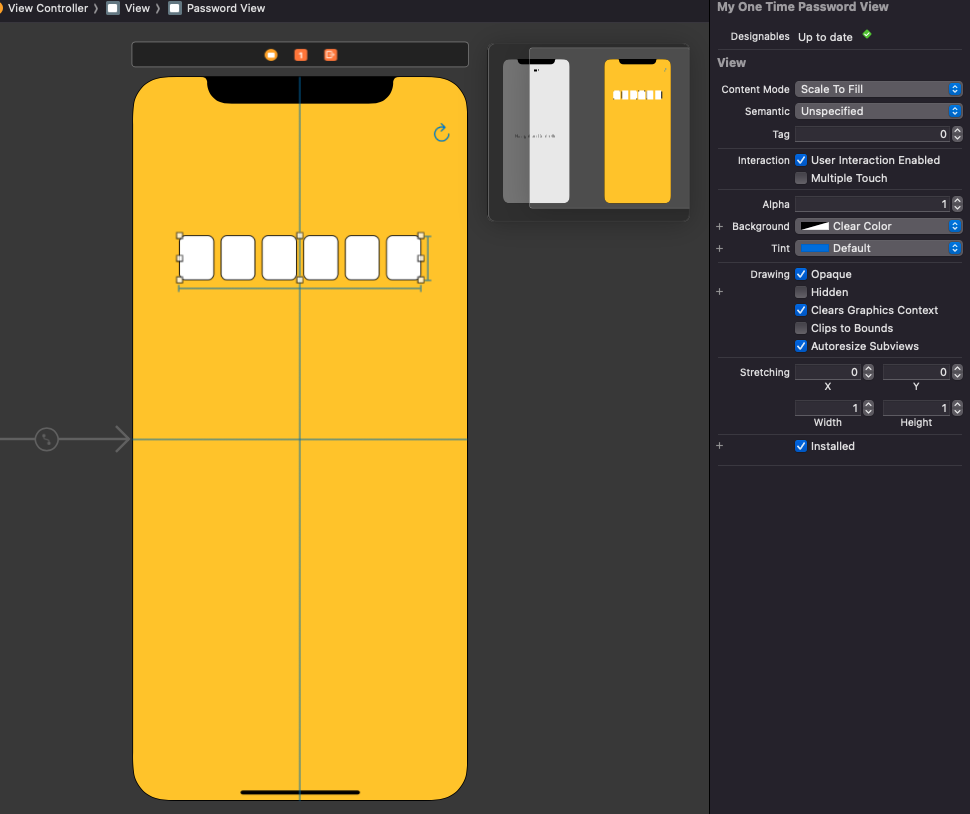
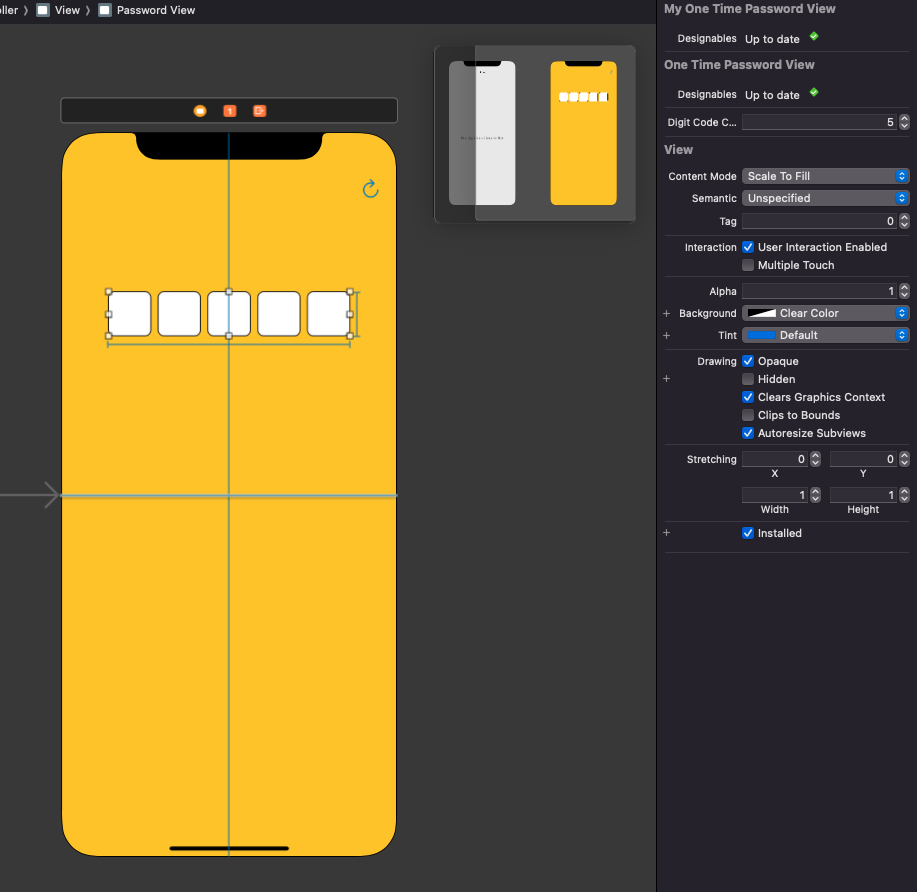
- add @IBInspectable support

Changed region(s): [[0.0305, 0.0, 1.0, 0.9828], [0.0, 0.0, 0.2748, 0.0307], [0.7634, 0.4914, 0.7939, 0.5221]]

diff --git a/Sources/WWOneTimePasswordView/WWOneTimePasswordView.swift b/Sources/WWOneTimePasswordView/WWOneTimePasswordView.swift
@@ -13,13 +13,14 @@ open class WWOneTimePasswordView: UIView {
     
     public typealias BorderParameter = (width: CGFloat, color: UIColor, radius: CGFloat)     // 框線相關設定 (寬度 / 顏色 / 圓角)
     
+    @IBInspectable var digitCodeCount: Int = 6
+    
     @IBOutlet var contentView: UIView!
     @IBOutlet weak var codeStackView: UIStackView!
     @IBOutlet weak var inputTextField: UITextField!
     
     public weak var delegate: WWOneTimePasswordViewDelegate?
     
-    private var digitCodeCount: Int = 6
     private var codeLabelFont: UIFont = .systemFont(ofSize: 20.0)
     private var generalBorderParameter: BorderParameter = (width: 1.0, color: .black, radius: 8.0)
     private var selectedBorderParameter: BorderParameter = (width: 3.0, color: .red, radius: 8.0)
@@ -59,14 +60,15 @@ public extension WWOneTimePasswordView {
     ///   - codeLabelFont: 字體
     ///   - generalBorderParameter: 一般時的框線數值
     ///   - selectedBorderParameter: 輸入時的框線數值
-    func initSetting(with digitCodeCount: Int, spacing: CGFloat = 8.0, codeLabelFont: UIFont = .systemFont(ofSize: 20.0), generalBorderParameter: BorderParameter = (width: 1.0, color: .black, radius: 8.0), selectedBorderParameter: BorderParameter = (width: 3.0, color: .red, radius: 8.0)) {
+    func initSetting(with digitCodeCount: Int? = nil, spacing: CGFloat = 8.0, codeLabelFont: UIFont = .systemFont(ofSize: 20.0), generalBorderParameter: BorderParameter = (width: 1.0, color: .black, radius: 8.0), selectedBorderParameter: BorderParameter = (width: 3.0, color: .red, radius: 8.0)) {
         
-        self.digitCodeCount = digitCodeCount
+        if let digitCodeCount = digitCodeCount { self.digitCodeCount = digitCodeCount }
+        
         self.generalBorderParameter = generalBorderParameter
         self.selectedBorderParameter = selectedBorderParameter
         self.codeLabelFont = codeLabelFont
         
-        initCodeViews(with: digitCodeCount, font: codeLabelFont, spacing: spacing, borderParameter: generalBorderParameter)
+        initCodeViews(with: self.digitCodeCount, font: codeLabelFont, spacing: spacing, borderParameter: generalBorderParameter)
         initInputTextField()
     }
     
